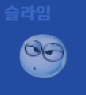
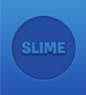
style: 아이템 카테고리 메뉴 - 슬라임, 정답판, 게임아이템 이미지 변경

diff --git a/src/app/(global)/categories/[category]/page.tsx b/src/app/(global)/categories/[category]/page.tsx
@@ -39,14 +39,14 @@ export default async function ItemCategoryPage({
         <b className="text-blue-600 inline-block mr-2">
           {ITEM_CATEGORY_MAP[category]}
         </b>
-        아이템 판매/구매 목록
+        판매/구매 목록
       </SectionTitle>
 
       <CategoryItemFilteredList category={category} />
 
       {/* 카테고리별 아이템 전체 목록 */}
       <div className="mt-8">
-        <SectionTitle>{ITEM_CATEGORY_MAP[category]} 아이템 전체</SectionTitle>
+        <SectionTitle>{ITEM_CATEGORY_MAP[category]} 전체</SectionTitle>
         <CategoryItemAccordion items={items} />
       </div>
     </section>

diff --git a/src/features/items/ui/ItemCategoryNav.tsx b/src/features/items/ui/ItemCategoryNav.tsx
@@ -20,7 +20,7 @@ export default function ItemCategoryNav() {
                 name={n.key}
                 className="p-2 bg-gradient-to-b from-[#53A0DA] to-[#2359B6] border-1 border-[#002656] rounded-sm hover:from-[#2359B6]"
               />
-              <span className="mt-2 text-sm font-medium text-foreground group-hover:underline group-hover:underline-offset-1  truncate">
+              <span className="mt-2 text-sm font-medium text-foreground group-hover:underline group-hover:underline-offset-1 truncate">
                 {ITEM_CATEGORY_MAP[n.key as keyof typeof ITEM_CATEGORY_MAP]}
               </span>
             </Link>

diff --git a/src/shared/ui/ItemImage.tsx b/src/shared/ui/ItemImage.tsx
@@ -16,10 +16,7 @@ export default function ItemImage({
 }: ItemImageProps) {
   return (
     <figure
-      className={cn(
-        "relative flex-shrink-0 rounded-md overflow-hidden",
-        className
-      )}
+      className={cn("relative shrink-0 rounded-md overflow-hidden", className)}
     >
       <Image
         src={imgUrl ?? "/images/empty.png"}
